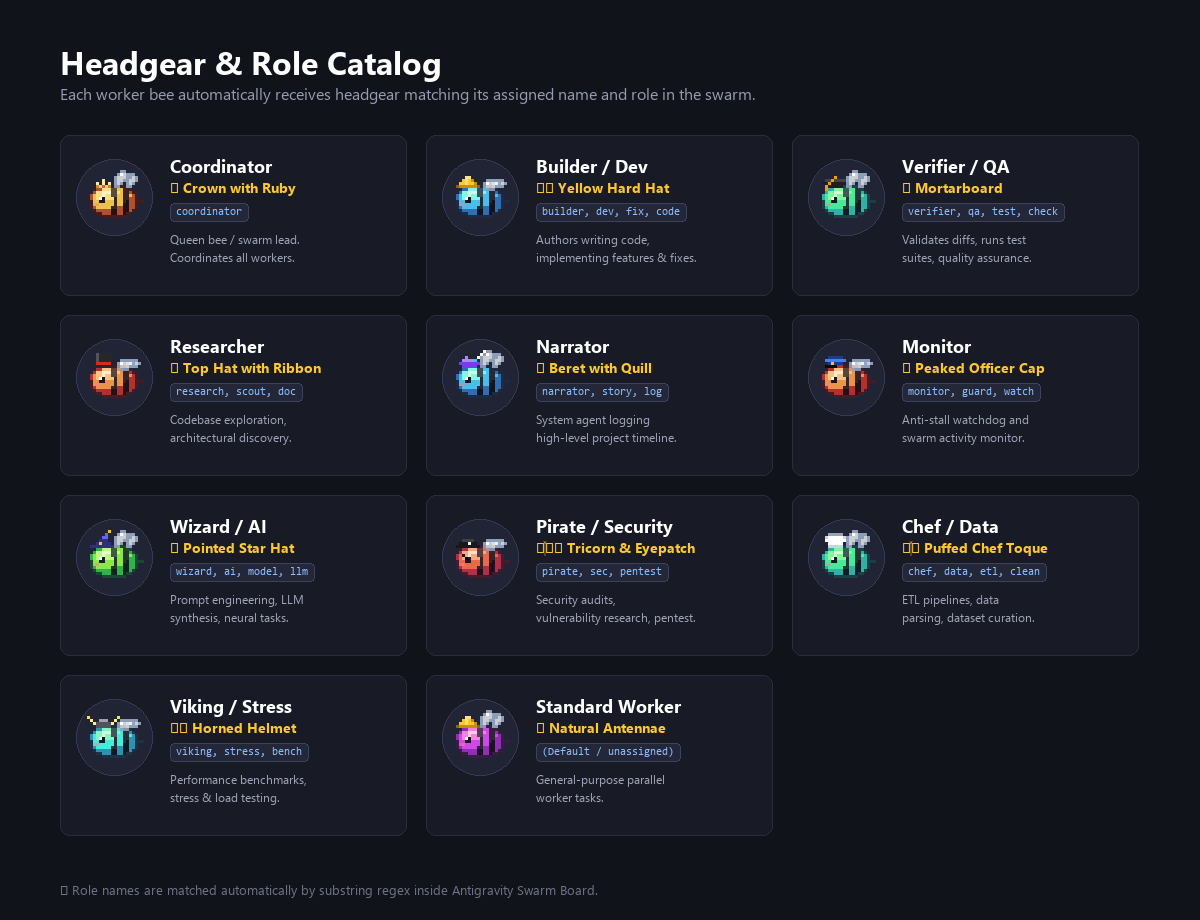
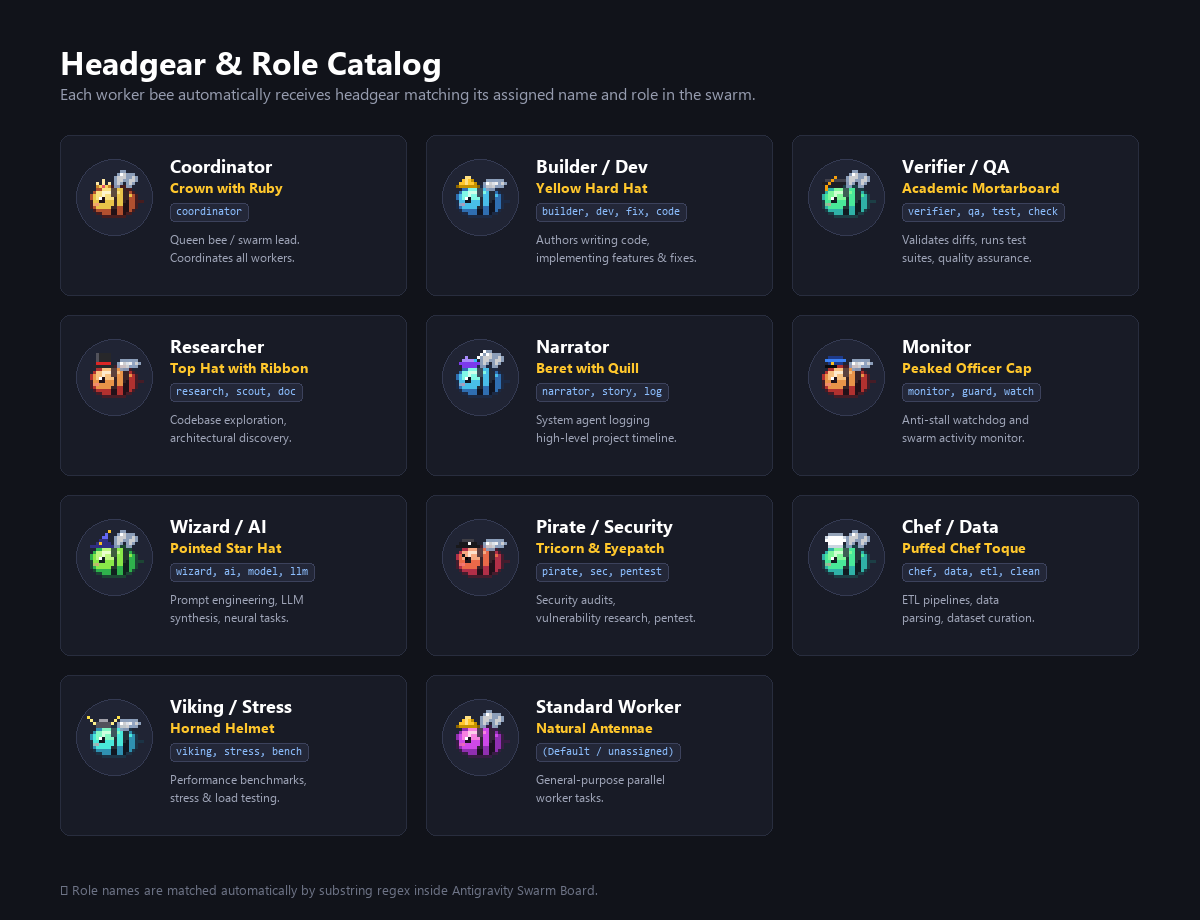
fix(assets): remove emoji glyphs from rendered images to prevent font tofu

diff --git a/scripts/generate_all_assets.py b/scripts/generate_all_assets.py
@@ -400,7 +400,7 @@ def generate_banner():
         dy += 22
 
     # Feature tags
-    tags = ["👑 10 Custom Hats", "🐝 Procedural Pixels", "🔄 Hook Persistence", "⚡ Zero Overhead"]
+    tags = ["10 Custom Hats", "22x18 Pixel Sprites", "Hook Persistence", "Zero Overhead"]
     tx = 60
     tag_font = get_font(12, bold=True)
     for t in tags:
@@ -411,12 +411,12 @@ def generate_banner():
 
     # Right side: Swarm formation of bees with different hats
     bees_spec = [
-        ('coordinator', 'flight', 0, 850, 150, 7.5, "👑 Queen Coordinator"),
-        ('builder-1', 'flight', 1, 710, 110, 6.0, "⛑ Builder"),
-        ('verifier-1', 'flight', 0, 1000, 120, 6.0, "🎓 Verifier"),
-        ('wizard-1', 'flight', 1, 730, 240, 6.0, "🧙 Wizard"),
-        ('researcher-1', 'flight', 0, 980, 250, 6.0, "🎩 Researcher"),
-        ('pirate-1', 'flight', 1, 860, 290, 5.5, "🏴☠ Security"),
+        ('coordinator', 'flight', 0, 850, 150, 7.5, "Queen Coordinator"),
+        ('builder-1', 'flight', 1, 710, 110, 6.0, "Builder"),
+        ('verifier-1', 'flight', 0, 1000, 120, 6.0, "Verifier"),
+        ('wizard-1', 'flight', 1, 730, 240, 6.0, "Wizard"),
+        ('researcher-1', 'flight', 0, 980, 250, 6.0, "Researcher"),
+        ('pirate-1', 'flight', 1, 860, 290, 5.5, "Security"),
     ]
 
     # Draw bees
@@ -451,17 +451,17 @@ def generate_roles_showcase():
 
     # Catalog items: (Role Title, Hat Name, Name Pattern, Description, Sample Name)
     catalog = [
-        ("Coordinator", "👑 Crown with Ruby", "coordinator", "Queen bee / swarm lead. Coordinates all workers.", "coordinator"),
-        ("Builder / Dev", "⛑ Yellow Hard Hat", "builder, dev, fix, code", "Authors writing code, implementing features & fixes.", "builder-1"),
-        ("Verifier / QA", "🎓 Mortarboard", "verifier, qa, test, check", "Validates diffs, runs test suites, quality assurance.", "verifier-1"),
-        ("Researcher", "🎩 Top Hat with Ribbon", "research, scout, doc", "Codebase exploration, architectural discovery.", "researcher-1"),
-        ("Narrator", "🪶 Beret with Quill", "narrator, story, log", "System agent logging high-level project timeline.", "narrator"),
-        ("Monitor", "👮 Peaked Officer Cap", "monitor, guard, watch", "Anti-stall watchdog and swarm activity monitor.", "monitor"),
-        ("Wizard / AI", "🧙 Pointed Star Hat", "wizard, ai, model, llm", "Prompt engineering, LLM synthesis, neural tasks.", "wizard-1"),
-        ("Pirate / Security", "🏴☠ Tricorn & Eyepatch", "pirate, sec, pentest", "Security audits, vulnerability research, pentest.", "pirate-1"),
-        ("Chef / Data", "🧑🍳 Puffed Chef Toque", "chef, data, etl, clean", "ETL pipelines, data parsing, dataset curation.", "chef-1"),
-        ("Viking / Stress", "🛡 Horned Helmet", "viking, stress, bench", "Performance benchmarks, stress & load testing.", "viking-1"),
-        ("Standard Worker", "📡 Natural Antennae", "(Default / unassigned)", "General-purpose parallel worker tasks.", "worker-99")
+        ("Coordinator", "Crown with Ruby", "coordinator", "Queen bee / swarm lead. Coordinates all workers.", "coordinator"),
+        ("Builder / Dev", "Yellow Hard Hat", "builder, dev, fix, code", "Authors writing code, implementing features & fixes.", "builder-1"),
+        ("Verifier / QA", "Academic Mortarboard", "verifier, qa, test, check", "Validates diffs, runs test suites, quality assurance.", "verifier-1"),
+        ("Researcher", "Top Hat with Ribbon", "research, scout, doc", "Codebase exploration, architectural discovery.", "researcher-1"),
+        ("Narrator", "Beret with Quill", "narrator, story, log", "System agent logging high-level project timeline.", "narrator"),
+        ("Monitor", "Peaked Officer Cap", "monitor, guard, watch", "Anti-stall watchdog and swarm activity monitor.", "monitor"),
+        ("Wizard / AI", "Pointed Star Hat", "wizard, ai, model, llm", "Prompt engineering, LLM synthesis, neural tasks.", "wizard-1"),
+        ("Pirate / Security", "Tricorn & Eyepatch", "pirate, sec, pentest", "Security audits, vulnerability research, pentest.", "pirate-1"),
+        ("Chef / Data", "Puffed Chef Toque", "chef, data, etl, clean", "ETL pipelines, data parsing, dataset curation.", "chef-1"),
+        ("Viking / Stress", "Horned Helmet", "viking, stress, bench", "Performance benchmarks, stress & load testing.", "viking-1"),
+        ("Standard Worker", "Natural Antennae", "(Default / unassigned)", "General-purpose parallel worker tasks.", "worker-99")
     ]
 
     card_w = 346
@@ -609,11 +609,11 @@ def generate_swarm_preview():
     draw.text((split_x + 30, 106), "LIVE BOARD FEED", fill=(170, 176, 200), font=left_font)
 
     feed = [
-        ("coordinator", "👑 coordinator", "2m ago", "Launched cosmetic patch task. Spawning builder-1 and verifier-1 for execution.", (255, 200, 60)),
-        ("builder-1", "⛑ builder-1", "1m ago", "@coordinator Implemented 10 procedural headgear shaders into hive.js canvas pipeline.", (100, 200, 255)),
-        ("wizard-1", "🧙 wizard-1", "45s ago", "@coordinator Verified pixel alignment and contrast ratios across light and dark backgrounds.", (180, 130, 255)),
-        ("verifier-1", "🎓 verifier-1", "20s ago", "@coordinator Ran full integration test suite. Cache busting verified. All 14 tests passed.", (34, 197, 94)),
-        ("builder-2", "⛑ builder-2", "Just now", "Generated ultra-crisp showcase graphic assets for GitHub documentation.", (255, 160, 60))
+        ("coordinator", "@coordinator", "2m ago", "Launched cosmetic patch task. Spawning builder-1 and verifier-1 for execution.", (255, 200, 60)),
+        ("builder-1", "@builder-1", "1m ago", "@coordinator Implemented 10 procedural headgear shaders into hive.js canvas pipeline.", (100, 200, 255)),
+        ("wizard-1", "@wizard-1", "45s ago", "@coordinator Verified pixel alignment and contrast ratios across light and dark backgrounds.", (180, 130, 255)),
+        ("verifier-1", "@verifier-1", "20s ago", "@coordinator Ran full integration test suite. Cache busting verified. All 14 tests passed.", (34, 197, 94)),
+        ("builder-2", "@builder-2", "Just now", "Generated ultra-crisp showcase graphic assets for GitHub documentation.", (255, 160, 60))
     ]
 
     fy = 140
@@ -646,11 +646,11 @@ def generate_demo_gif():
 
     # Hats showcase in demo
     showcase_bees = [
-        ('coordinator', '👑 Coordinator', 70, 110),
-        ('builder-1', '⛑ Builder', 180, 110),
-        ('verifier-1', '🎓 Verifier', 290, 110),
-        ('wizard-1', '🧙 Wizard', 400, 110),
-        ('viking-1', '🛡 Viking', 510, 110),
+        ('coordinator', 'Coordinator', 70, 110),
+        ('builder-1', 'Builder', 180, 110),
+        ('verifier-1', 'Verifier', 290, 110),
+        ('wizard-1', 'Wizard', 400, 110),
+        ('viking-1', 'Viking', 510, 110),
     ]
 
     for f in range(6):
